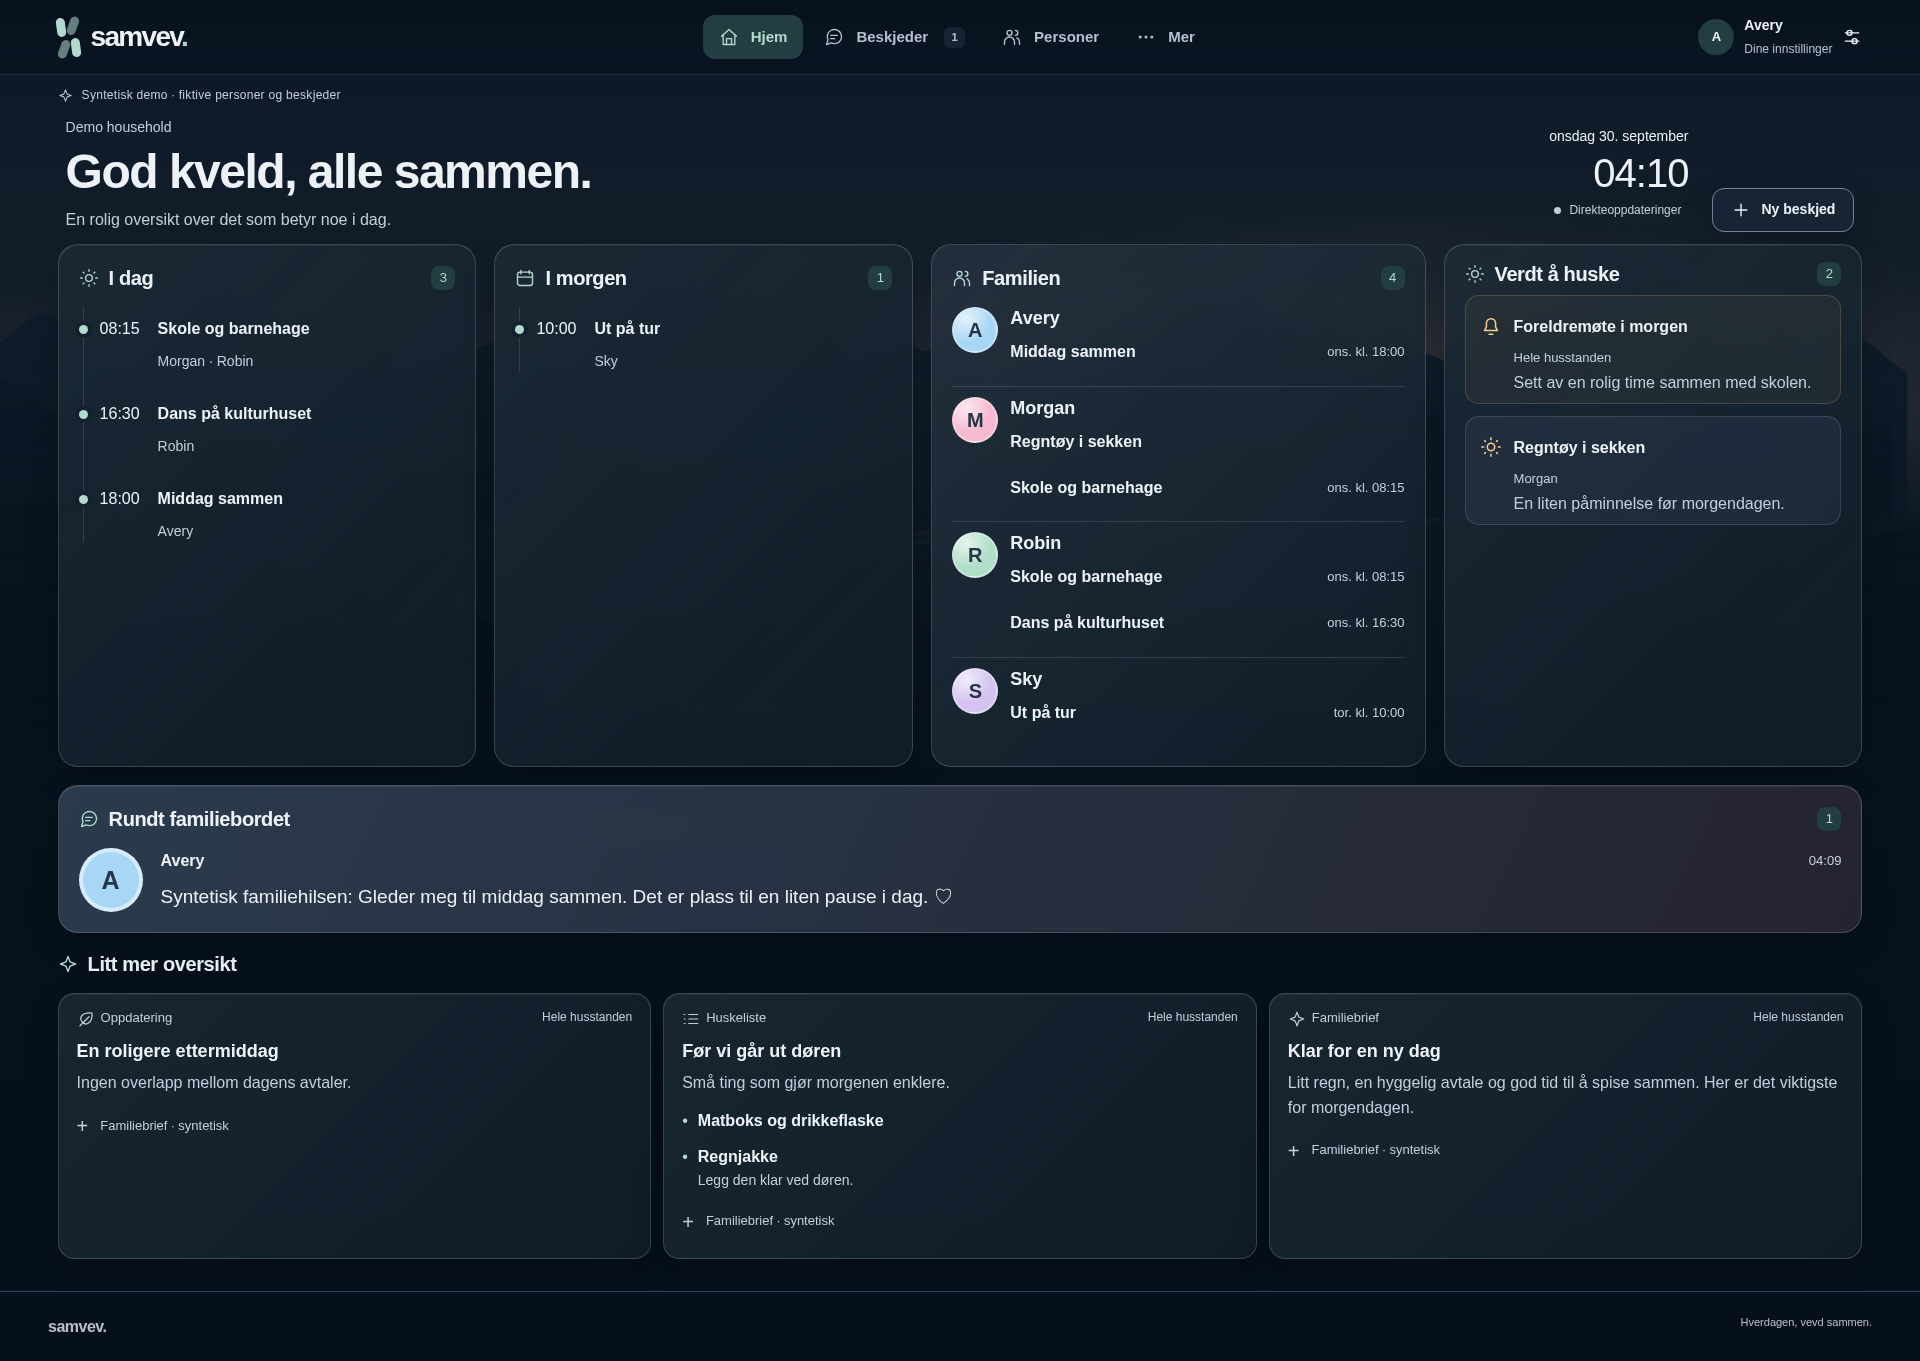
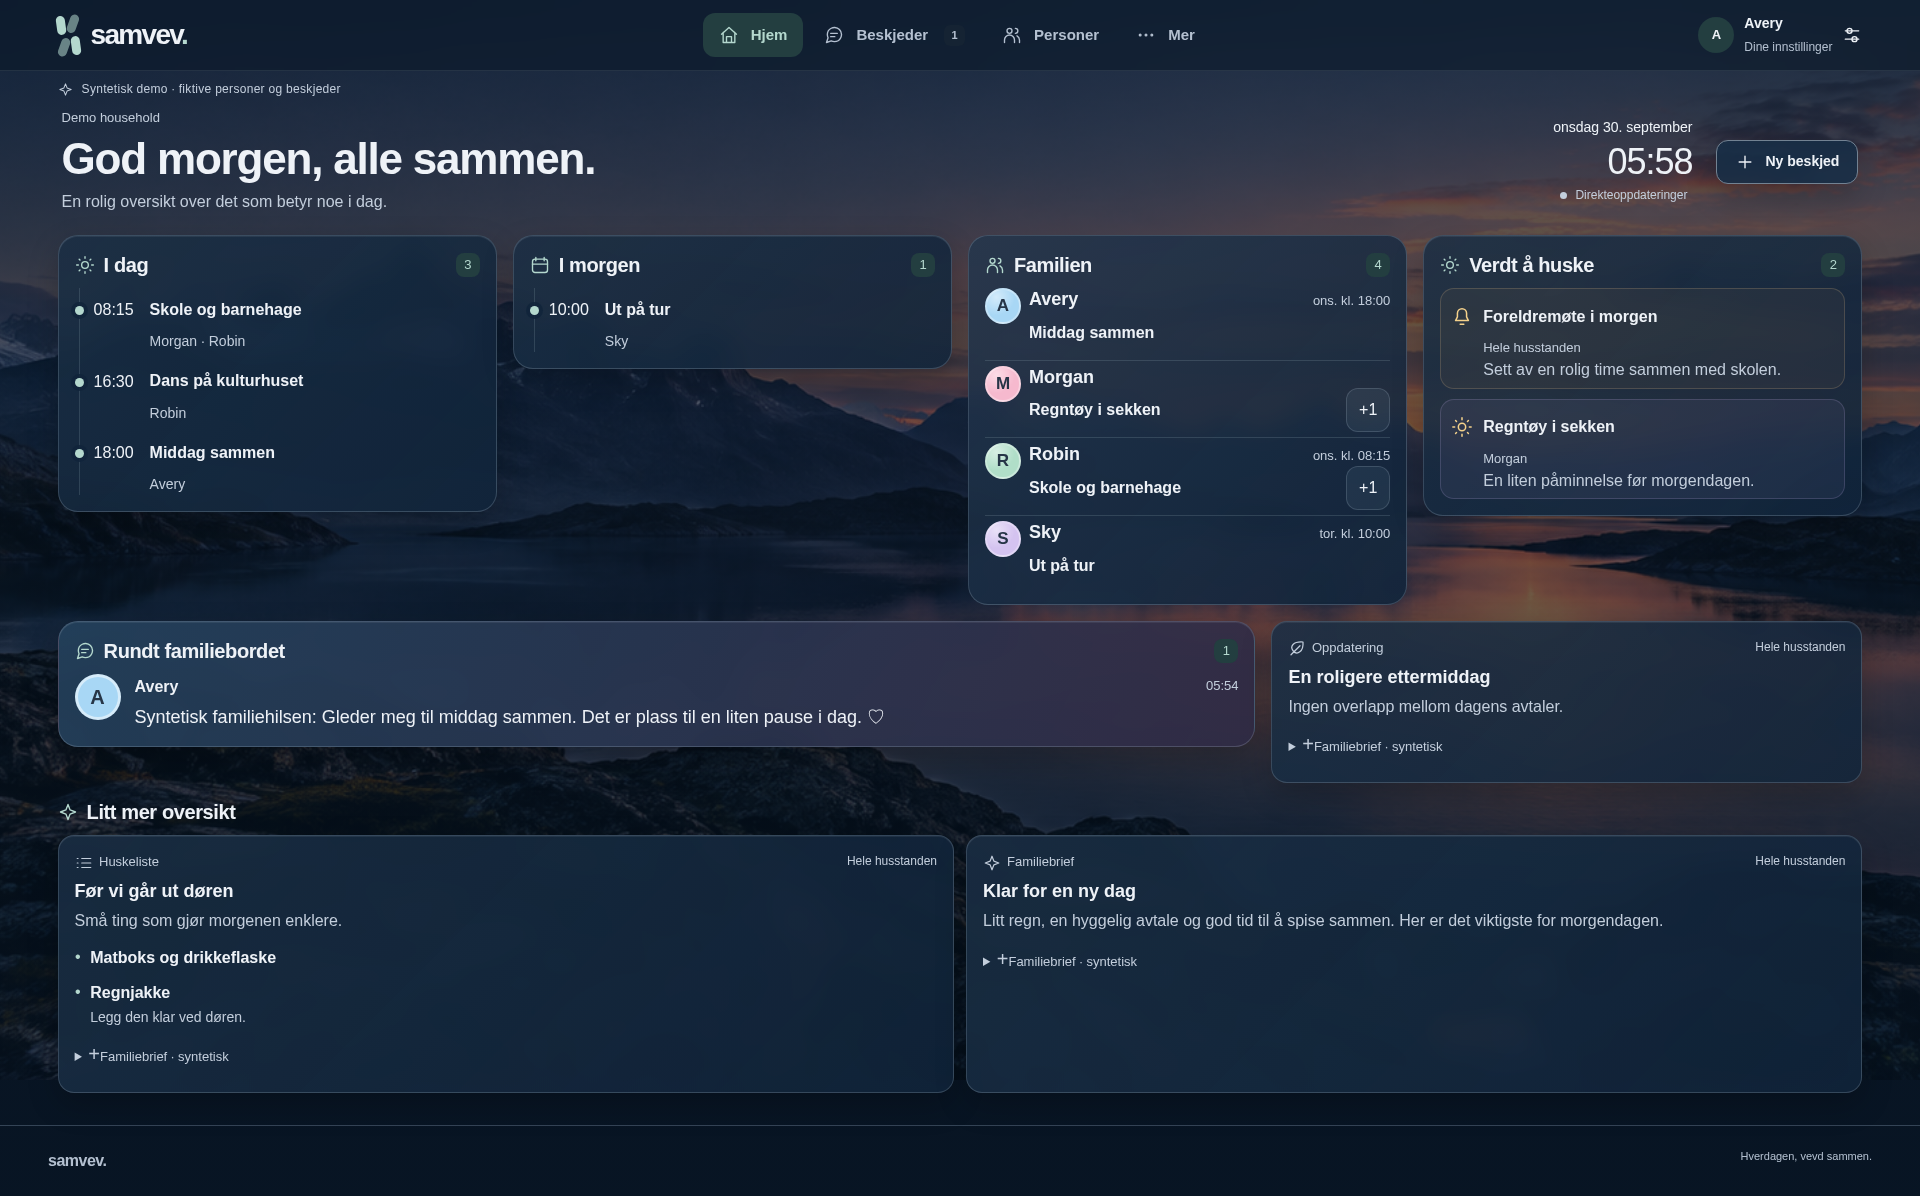
docs(design): record verified M3 design round 2

diff --git a/docs/design/review/ROUND_2_REPORT.md b/docs/design/review/ROUND_2_REPORT.md
@@ -1,0 +1,141 @@
+# M3 design round 2 — 2026-09-30
+
+Explicitly activated mailbox commit: `127a3b79d27d3f4035e2793d8e6e2db1fbacf7f5`.
+Final signed source: `99185975a758548dacbe11210834c9fbd9a06c55`.
+The initial composition/U1 checkpoint was `d032b6019e298e7ff128d63f9c70b8735f043a90`;
+the final checkpoint strengthens dark photo-backed text contrast.
+The protected main `.git` remains at historical `390f6a6a6027e257a5250cfed1cc0517b6974bd3`.
+Only the existing `.local/design-review-publish` feature checkout performs Git writes.
+
+## Implemented priorities
+
+- P0: independent panel heights; four complete named personal previews with real
+  event dates; both reminder titles/recipients and an actual human message visible
+  at 1180×820 and 1280×752 in both themes. Full personal details remain accessible.
+- P1 desktop: light people/agenda align, reminders occupy the useful family area;
+  message approximately two thirds plus a real observation companion. Dark sparse
+  Tomorrow no longer stretches with Family. All primary content, complete short
+  message and actual companion fit at 1920×1080.
+- P1 mobile: compact greeting/date/status/compose and four identities; concise
+  reminder previews with complete details; three full Today rows fit. The second
+  row ends at y632.42, navigation begins at y772: 139.58px clearance.
+- P1 materials: stronger blue/rose/mint/lilac reading cards; original local
+  [generated dusk landscape](../../../apps/web/src/assets/nordic-dusk-v2.provenance.md)
+  behind restrained navy glass. A visual iteration darkened the upper overlay
+  after actual image-backed status contrast measured below AA.
+- P2: natural single-column mobile person cards, restrained avatar rings,
+  shared keyed DOM order, and focus return to a visible personal disclosure when
+  theme change hides the original detail trigger. No duplicate support widget.
+
+## U1: real synthetic QA admin/admin
+
+The UI alias `admin` maps only to internal `admin@demo.invalid` when trusted
+setup status is simultaneously claimed, demo, and demo-enabled. Ordinary
+installations retain email input; the supplied password always reaches ordinary
+server hash authentication. General new/change-password policy remains strong.
+No API/schema/seed/migration change or authentication fallback was introduced.
+
+`bash scripts/qa-demo-admin-password.sh` checks exact Compose labels/service/
+health, QA volume/runtime/origin, actual database/user, claimed demo installation,
+locked enabled administrator and one exclusively synthetic household membership.
+It changed only that existing account's hash and ordinary password-change
+metadata. A second execution was a no-op. Independently compared aggregate
+hashes prove other account hashes/identities, household, people, memberships,
+messages and integration data unchanged. Run this explicit procedure after fresh
+QA demo provisioning; generic provisioning and other demo passwords are unchanged.
+
+Literal `admin/admin` reached the actual LAN Home in focused QA and again after
+M3. Wrong-password rejection, real UI logout, non-demo email behavior and ordinary
+strong password policy were verified. Independent post-capture browser verification
+at `2026-09-30T04:00:27.514Z` again typed literal `admin/admin`, observed the
+ordinary email/password login request, displayed real Family Hub and completed
+UI logout; browser errors and blocked outbound requests were empty.
+
+## Executed checks and fixture history
+
+Existing Node 24.20.0 environment, sequential checks, no dependency installation:
+web check PASS; web unit tests 28/28; QA credential tests 4/4; core/contracts
+password tests 6/6; real-Git publication/provenance tests 7/7.
+Explicit checkpoint builds use only `bash scripts/design-review-build.sh`.
+The final build and mounted worktree match 164 immutable Git inputs, with
+independently verified LAN HTML/CSS/JS/image hashes. No additional build follows
+capture.
+
+Final focused real-LAN browser run: `2026-09-30T03:50:29.129Z`, source above,
+ten normal viewport images, failures/errors/outbound requests all empty.
+Both themes/five sizes pass strict low-height/mobile geometry, Axe, 44px controls,
+DOM order, theme/resize dialog persistence and focus, controlled empty/no-overflow,
+ordinary email mode and UI logout. Dark photo-backed text was separately measured
+against every background-only pixel in each real text Range; minimum ratios:
+1920 5.128, mobile 7.785, portrait 7.556, landscape 5.060, Shelly 4.919.
+All measured areas meet their applicable 4.5:1 or large-text 3:1 AA threshold;
+this is bounded evidence for the sampled real fixture, not every possible image.
+
+Two earlier focused attempts had defects in the ignored QA measurement helper:
+scoped rectangles resolved the document root, date/title selectors were wrong,
+focus was checked before its scheduled frame, and logout targeted a hidden
+desktop control on mobile. Evidence was preserved, helpers corrected without
+weakening criteria, and the complete focused suite passed. These were test-helper
+failures, not demonstrated Today/layout regressions. Only the independently
+confirmed image-backed contrast issue changed product code.
+
+The canonical M3 harness ran exactly once, correct configured LAN Origin,
+10/10 groups PASS and browser errors empty. It verifies real bearer/database/
+member/display SSE, actual display render ACK, NB/EN source language, idempotency,
+provenance/details, ten viewport/Axe checks, system/focus/reduced motion,
+1/4/8 people/long content, credential reveal/revocation and offline expiry.
+Normal harness mutations withdrew the old synthetic greeting, created the current
+one, paired a restricted synthetic display, created the current integration,
+revoked prior harness integrations and created/revoked a UI-test integration.
+Final projection: four people, nine active items, one human message; Today three
+and Tomorrow one. No manual reseed, redating or reset occurred. The aggregate
+snapshot named pre-regression was collected after the harness started and is
+not claimed as a true before-run snapshot. Preferences returned to nb/system.
+
+Operational evidence is ignored under `.local/m3/design-round2/`: final-logs,
+focused-final, actual-composited-contrast.json and regression/lan-final. No broad
+M1 reset/test profile, npm ci/install, container restart, volume removal or prune.
+
+## Final capture and visual limits
+
+Final command: `bash scripts/design-review.sh`. Round
+`20260930035832-99185975-5a933bde`, captured `2026-09-30T03:58:32.912Z`,
+records the signed source above in [latest/manifest.json](latest/manifest.json).
+All 14 files were opened visually and independently checked for SHA-256, PNG
+dimensions, correct Family Hub, four people and nine active items. Ten viewport
+images cover both themes at 1920×1080, 390×844, 820×1180, 1180×820 and 1280×752;
+four supplemental full-page images are desktop light 1920×1312, desktop dark
+1920×1196 and mobile light/dark 390×2705. No login/error page was captured.
+
+All 164 mounted build inputs match immutable source Git bytes; served HTML, JS,
+CSS and the local landscape match build hashes. Build timestamp
+`2026-09-30T03:45:03.492Z` precedes capture. The manifest honestly records
+`workingTreeDirty:true` for review documentation/artifacts, without source drift.
+Previous latest was archived byte-for-byte under
+`archive/20260930021038-11d43fd9-727d21a4/`; 31 older archive files also remain
+unchanged. Post-capture literal login/logout passed as recorded above.
+
+Viewport comparisons support P0/P1 above; portrait retains early message and
+usable two-column organization. Final full-page mobile images confirm natural
+single-column person cards. The fixed navigation appears at the original viewport
+boundary in full-page supplements; the normal viewport captures are authoritative
+for navigation clearance. Exact reference parity and ChatGPT Work approval are not
+claimed. Compact dark avatars retain a minor soft glow as nonblocking P2 polish.
+Larger/longer feeds scroll naturally; remaining secondary widgets sit
+below the primary composition. Images are member Home, including Shelly-sized
+captures; physical wall hardware is not certified.
+
+## Files, rollback and boundaries
+
+UI: family-hub.tsx, home-presentation.ts, home.css, main.tsx, demo-login.ts,
+locales en/nb, new local PNG/provenance and relevant web tests. QA: guarded
+password scripts/tests; capture and M3 credentials/asset checks. Documentation:
+review README, scripts README, M3 artifact notes, this report and M1 status.
+Final evidence includes all 14 images, manifest and preserved previous round.
+ROUND_1_REPORT.md and the activated mailbox remain unchanged.
+
+No migration. UI/tooling rollback is a normal signed revert and explicit QA build;
+credential rollback requires an equally scoped ordinary hash update, never reset.
+Only synthetic content and explicitly approved test credentials were introduced.
+No private data or real secrets. Three existing QA services remain running.
+No PR, merge, deploy, main/force push, tag, release or Actions dispatch.

diff --git a/docs/implementation/M1_STATUS.md b/docs/implementation/M1_STATUS.md
@@ -1,5 +1,23 @@
 # M1 implementation status
 
+## M3 design round 2 — 2026-09-30
+
+The explicitly activated mailbox `127a3b7` is implemented: independent low-height
+panels, earlier reminders/messages, real message/support composition, compact
+mobile agenda, original local dusk landscape and verified photo-backed contrast.
+The synthetic LAN QA UI accepts literal `admin/admin` through ordinary hash
+verification. Its guarded idempotent credential procedure preserves other accounts
+and household data; ordinary email and strong new-password rules are unchanged.
+
+Signed source `99185975a758548dacbe11210834c9fbd9a06c55`: Node 24 web check,
+28/28 web tests, 4/4 QA credential tests, 6/6 policy/core tests, 7/7 tooling tests;
+focused browser and one canonical M3 run (10/10 groups) pass. All 14 final
+screenshots are visually/hash verified, round `20260930035832-99185975-5a933bde`;
+post-capture literal admin login and UI logout pass. Review evidence is prepared
+for signed feature-branch publication. Full evidence
+and limits are recorded in [the round 2 report](../design/review/ROUND_2_REPORT.md).
+Protected root Git metadata and isolated running QA data are preserved.
+
 ## M3 design round 1 — 2026-09-30
 
 The explicitly activated [design mailbox](../design/review/NEXT_CODEX_PROMPT.md)
